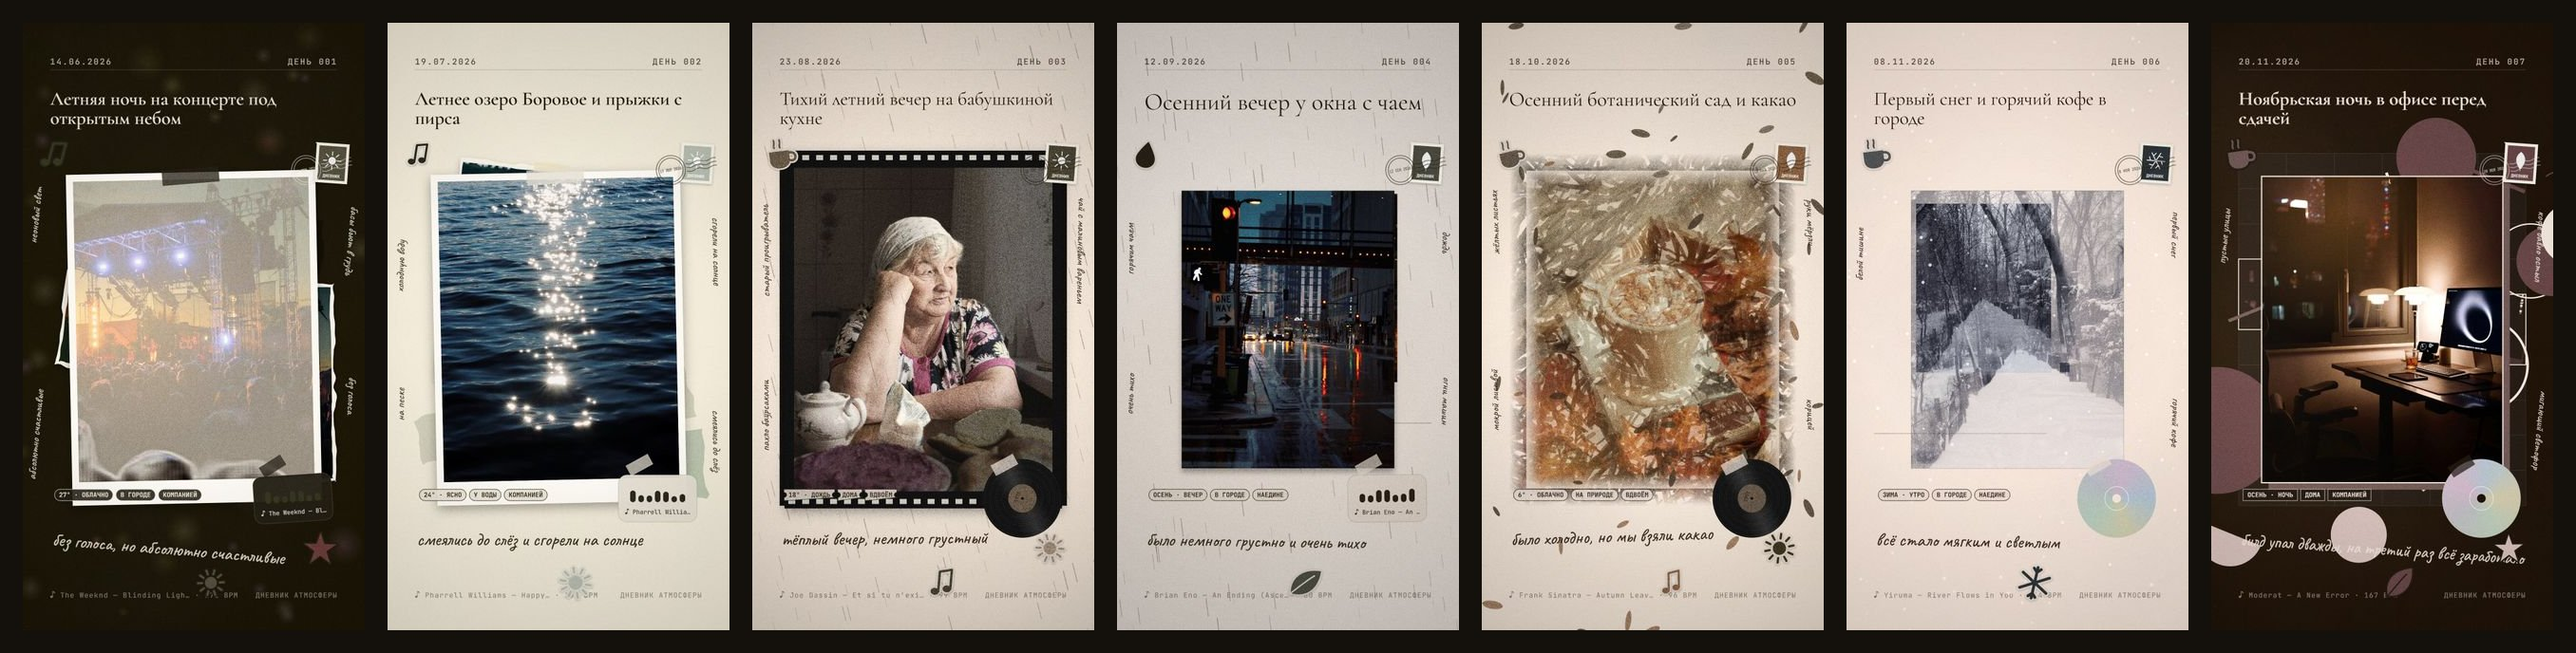
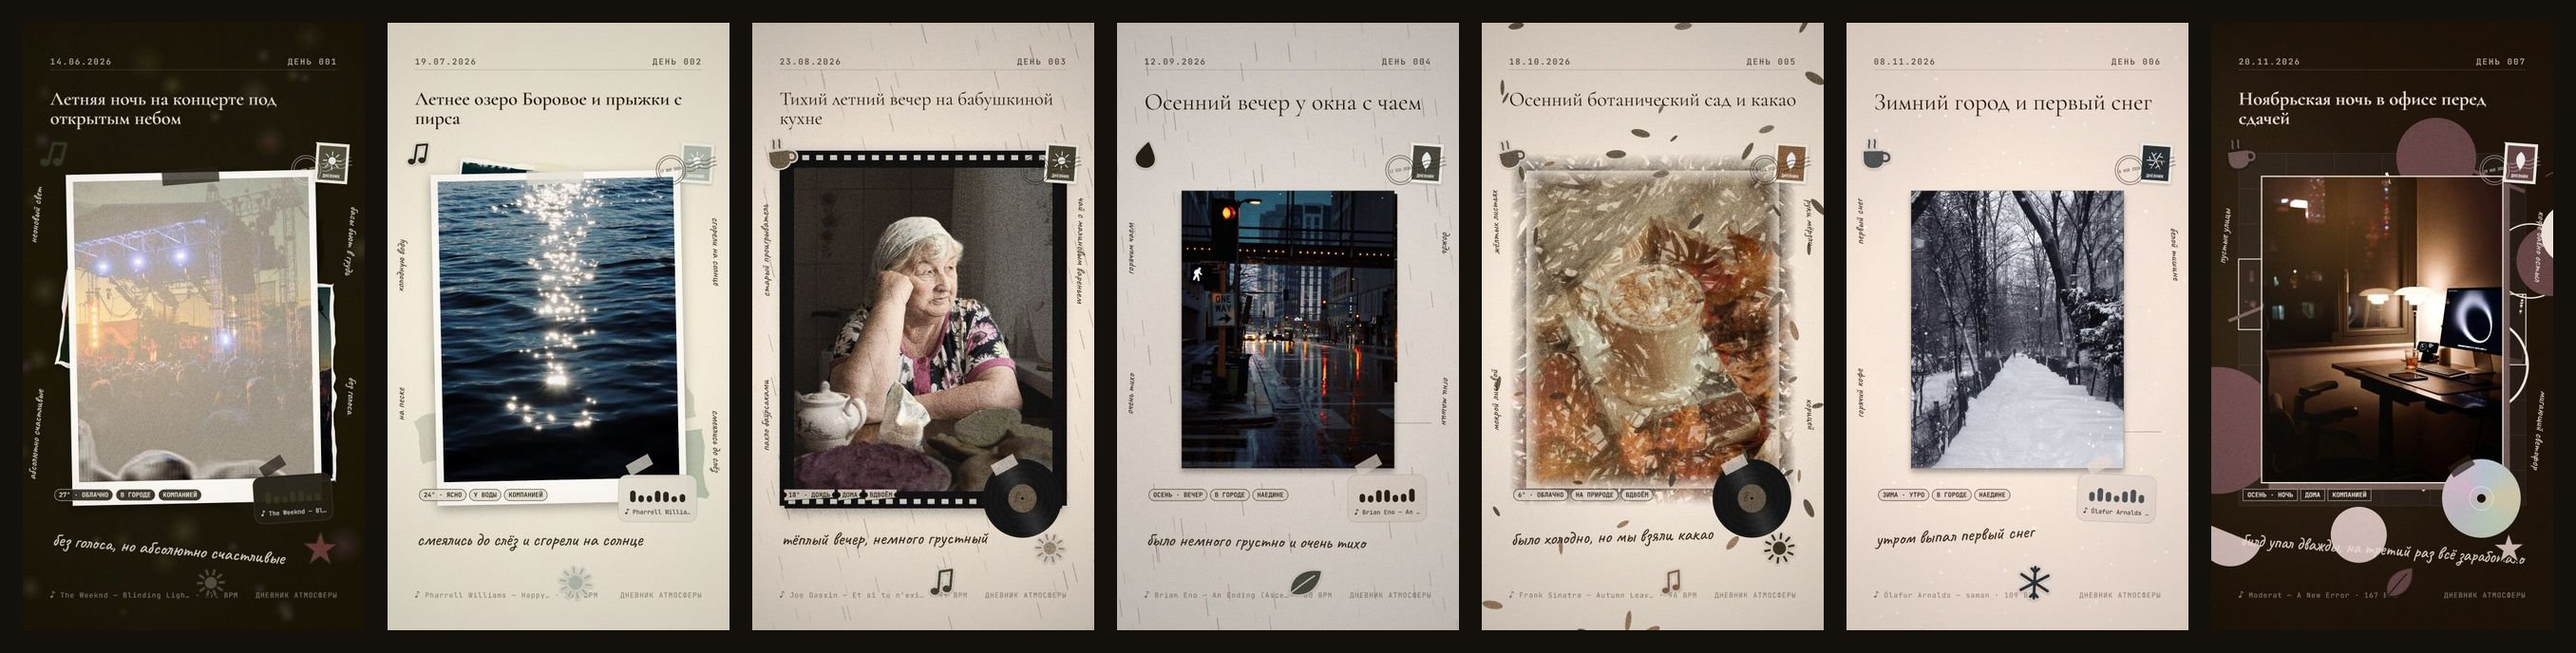
fix(archive): signed links live 12 h and refresh when a poster fails or the tab comes back; demo «первый снег» gets a song with a preview in the EU
Deezer has no preview for Yiruma — River Flows in You from Vercel's region (fra1), so the snow day was silent
on prod; it now uses Ólafur Arnalds — saman (preview checked through the prod proxy). Day numbers 001–007
in order again; the 7-day feed image is redrawn.

Changed region(s): [[0.7124, 0.2747, 0.8363, 0.9157], [0.7124, 0.1526, 0.8363, 0.1831]]

diff --git a/src/components/Archive.tsx b/src/components/Archive.tsx
@@ -2,7 +2,7 @@
 // Архив дневника (A8): сетка по месяцам, лента, календарь (R12), «В этот день» (R12), случайный день (R12), поиск.
 import Link from 'next/link';
 import { useRouter } from 'next/navigation';
-import { useEffect, useMemo, useState } from 'react';
+import { useCallback, useEffect, useMemo, useRef, useState } from 'react';
 import { api } from '@/lib/client/api';
 import { useStored, writeStored } from '@/lib/client/diaryKey';
 import { dayColor, groupByMonth, humanDate, localToday, monthGrid, monthLabel, onThisDay, yearsAgo, yearsWord } from '@/lib/archive';
@@ -11,7 +11,7 @@ import { AtlasView } from './AtlasView';
 import { ThemeFilms } from './ThemeFilms';
 import { BookView } from './BookView';
 import { songLabel } from './MemoryPlayer';
-import { DayCard } from './DayCard';
+import { DayCard, StaleLinksContext } from './DayCard';
 import { DiaryKey } from './DiaryKey';
 
 type View = 'grid' | 'book' | 'atlas' | 'films' | 'feed' | 'calendar';
@@ -74,6 +74,9 @@ export function Archive({ diaryId, isDemo, songs = [], title }: { diaryId: strin
   const [days, setDays] = useState<DayRecord[] | null>(null);
   const [error, setError] = useState<string | null>(null);
   const [q, setQ] = useState('');
+  // Ссылки на файлы временные: перезапрос списка даёт свежие.
+  const [reload, setReload] = useState(0);
+  const loadedAt = useRef(0);
   // Выбранный вид архива запоминается на устройстве.
   const savedView = useStored(VIEW_KEY);
   const view: View = VIEWS.some(([v]) => v === savedView) ? (savedView as View) : 'grid';
@@ -82,10 +85,22 @@ export function Archive({ diaryId, isDemo, songs = [], title }: { diaryId: strin
   useEffect(() => {
     let alive = true;
     const t = setTimeout(() => {
-      api.listDays(diaryId, q.trim(), songParam ? songParam.split('\n') : []).then((d) => { if (alive) { setDays(d); setError(null); } }, (e) => alive && setError(e instanceof Error ? e.message : 'Не удалось открыть дневник'));
+      api.listDays(diaryId, q.trim(), songParam ? songParam.split('\n') : []).then((d) => { if (alive) { loadedAt.current = Date.now(); setDays(d); setError(null); } }, (e) => alive && setError(e instanceof Error ? e.message : 'Не удалось открыть дневник'));
     }, q ? 300 : 0);
     return () => { alive = false; clearTimeout(t); };
-  }, [diaryId, q, songParam]);
+  }, [diaryId, q, songParam, reload]);
+
+  // Вкладка долго висела открытой (полчаса и больше) — при возвращении берём свежие ссылки на постеры.
+  useEffect(() => {
+    const onBack = () => { if (document.visibilityState === 'visible' && loadedAt.current && Date.now() - loadedAt.current > 30 * 60_000) setReload((r) => r + 1); };
+    document.addEventListener('visibilitychange', onBack);
+    window.addEventListener('focus', onBack);
+    return () => { document.removeEventListener('visibilitychange', onBack); window.removeEventListener('focus', onBack); };
+  }, []);
+  // Постер не загрузился (истекла ссылка) — перезапрашиваем список, но не чаще раза в минуту.
+  const refreshLinks = useCallback(() => {
+    if (Date.now() - loadedAt.current > 60_000) { loadedAt.current = Date.now(); setReload((r) => r + 1); }
+  }, []);
 
   const groups = useMemo(() => groupByMonth(days ?? []), [days]);
 
@@ -95,6 +110,7 @@ export function Archive({ diaryId, isDemo, songs = [], title }: { diaryId: strin
   }
 
   return (
+    <StaleLinksContext.Provider value={refreshLinks}>
     <div>
       {/* Ключ показываем, только когда сервер подтвердил, что такой дневник есть. */}
       {!isDemo && days && !error && <DiaryKey diaryId={diaryId} />}
@@ -169,5 +185,6 @@ export function Archive({ diaryId, isDemo, songs = [], title }: { diaryId: strin
         </section>
       ))}
     </div>
+    </StaleLinksContext.Provider>
   );
 }

diff --git a/src/components/DayCard.tsx b/src/components/DayCard.tsx
@@ -1,6 +1,11 @@
+'use client';
 import Link from 'next/link';
+import { createContext, useContext } from 'react';
 import type { DayRecord } from '@/lib/types';
 import { Tilt } from './fx/Tilt';
+
+/** Постер не загрузился (истекла ссылка) — архив перезапросит свежие ссылки. */
+export const StaleLinksContext = createContext<() => void>(() => undefined);
 
 /** Наклон карточки, когда её «кладут на стол» по прокрутке (ресерч 20.11, M5): свой для каждого дня. */
 const tiltFrom = (date: string) => `${((Number(date.slice(8, 10)) * 7) % 13) - 6}deg`;
@@ -19,6 +24,7 @@ function Envelope({ day }: { day: DayRecord }) {
 }
 
 export function DayCard({ day, large = false, from }: { day: DayRecord; large?: boolean; from?: string }) {
+  const onStale = useContext(StaleLinksContext);
   const href = `/day/${day.id}${from ? `?from=${from}` : ''}`;
   if (day.sealed) {
     return (
@@ -36,7 +42,7 @@ export function DayCard({ day, large = false, from }: { day: DayRecord; large?: 
       <Tilt className="rounded-sm">
       <div className="relative aspect-[9/16] overflow-hidden rounded-sm shadow-md ring-1 ring-black/5 transition-shadow group-hover:shadow-2xl" style={{ background: bg }}>
         {/* eslint-disable-next-line @next/next/no-img-element */}
-        {cover && <img src={cover} alt="" loading="lazy" className={`h-full w-full ${day.posterUrl ? 'object-cover' : 'object-cover opacity-80'}`} />}
+        {cover && <img src={cover} alt="" loading="lazy" onError={onStale} className={`h-full w-full ${day.posterUrl ? 'object-cover' : 'object-cover opacity-80'}`} />}
         {!day.posterUrl && (
           <div className="absolute inset-x-0 top-0 p-3" style={{ color: day.style?.palette.ink }}>
             <p className="font-mono text-[10px] tracking-widest">{day.date.split('-').reverse().join('.')}</p>

diff --git a/src/lib/storage.ts b/src/lib/storage.ts
@@ -22,8 +22,9 @@ export function dayFiles(folder: string) {
   };
 }
 
-/** Signed URLs на чтение (по умолчанию на час). Пустые пути пропускаются. */
-export async function signRead(paths: (string | null | undefined)[], ttlSec = 3600): Promise<Record<string, string>> {
+/** Подписанные ссылки на чтение. 12 часов: страница, открытая с вечера, не теряет постеры и фото. Пустые пути пропускаются. */
+export const READ_TTL_SEC = 12 * 3600;
+export async function signRead(paths: (string | null | undefined)[], ttlSec = READ_TTL_SEC): Promise<Record<string, string>> {
   const list = [...new Set(paths.filter((p): p is string => !!p))];
   if (!list.length) return {};
   const { data, error } = await supabaseAdmin().storage.from(BUCKET).createSignedUrls(list, ttlSec);
